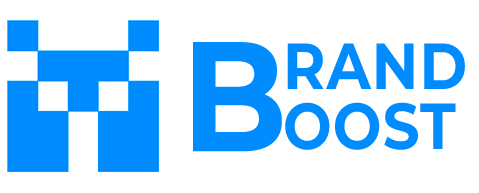
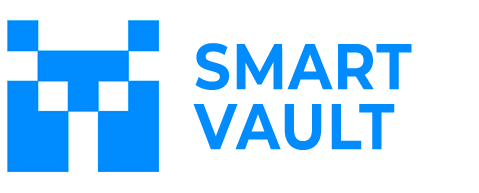
chore: update

Changed region(s): [[0.38, 0.2176, 0.9937, 0.8083]]

diff --git a/src/components/sidebar/index.tsx b/src/components/sidebar/index.tsx
@@ -38,7 +38,7 @@ function DashboardSidebarHeader() {
                 <Image src={logo} alt="Logo" width={16} height={16} />
               </div>
               <div className="grid flex-1 truncate text-left leading-tight">
-                <p className="pl-2 text-sm font-bold">Brand</p>
+                <p className="pl-2 text-sm font-bold">Smart Vault</p>
                 <p className="pl-2 text-xs text-muted-foreground">
                   Панель администратора
                 </p>
